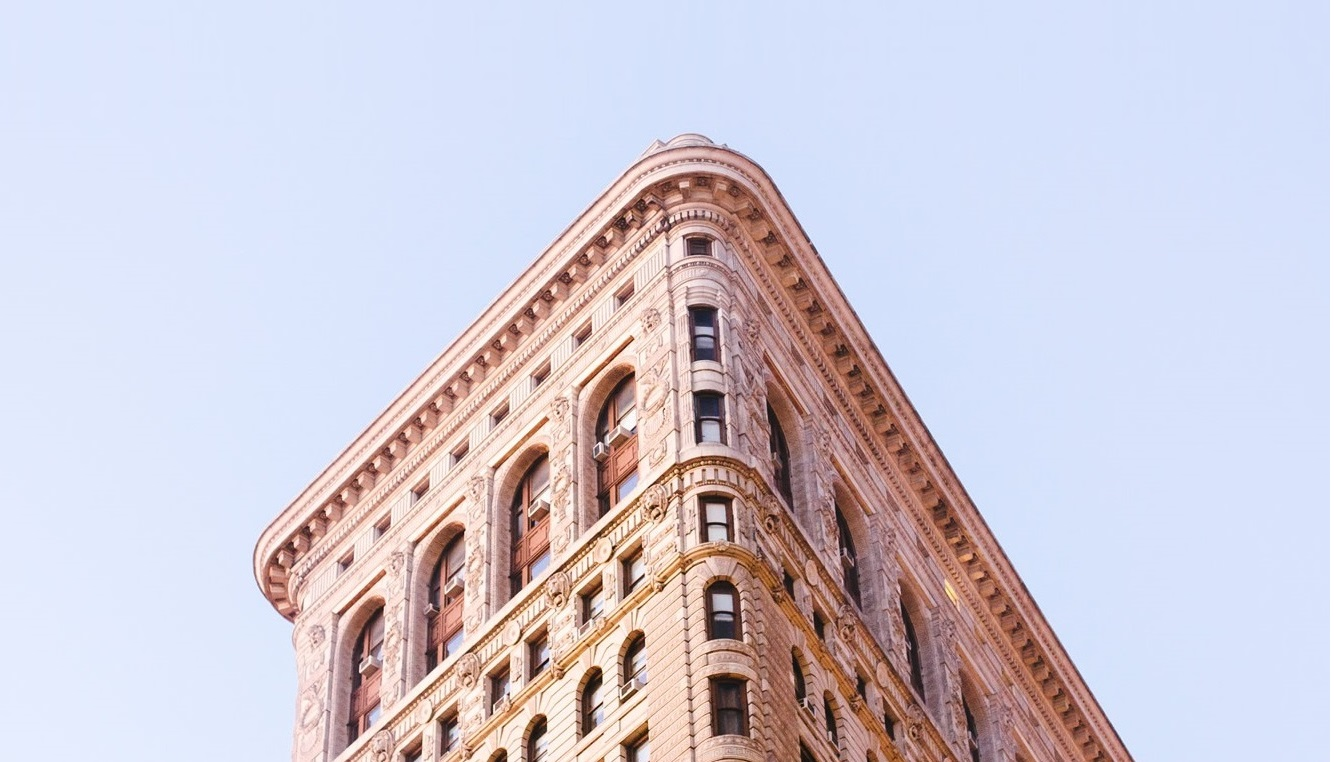
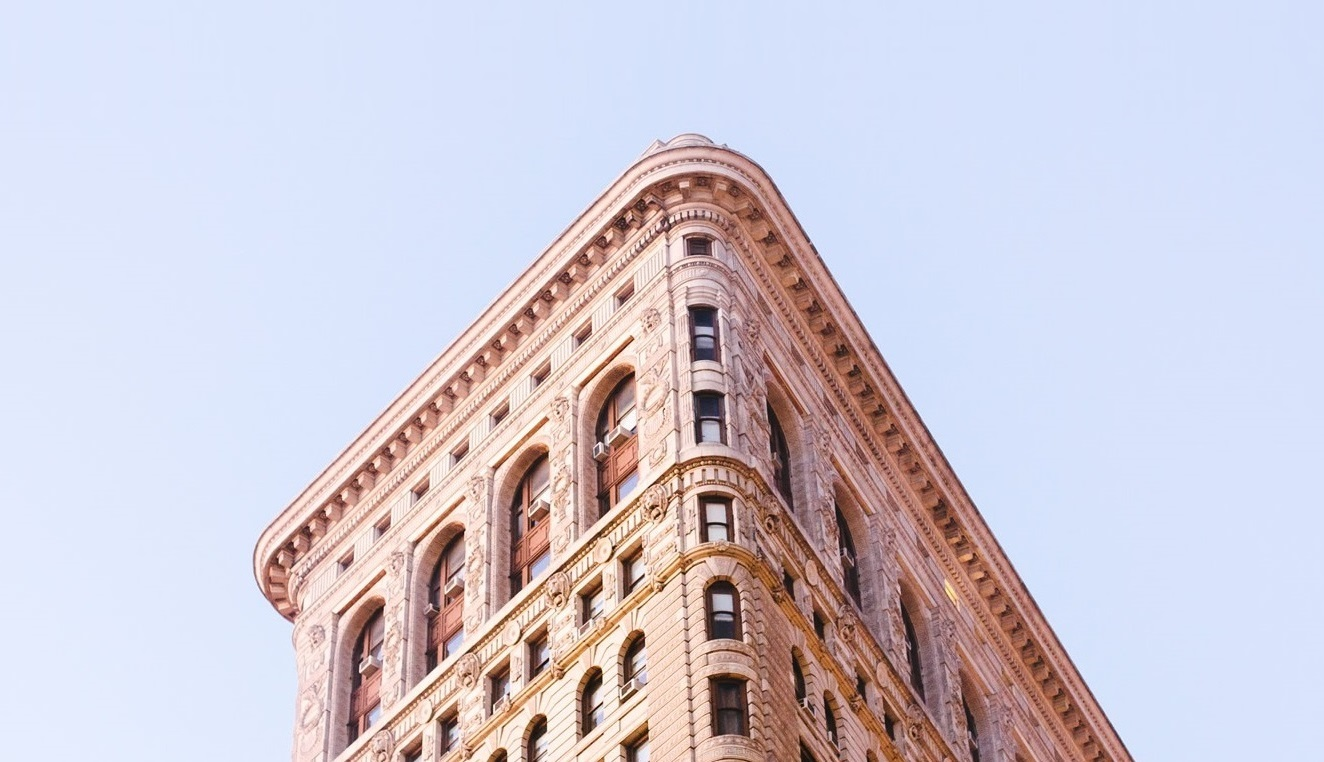
Background img fix

Changed region(s): [[0.1858, 0.1811, 0.8671, 1.0], [0.9909, 0.0, 1.0, 1.0]]

diff --git a/src/components/components/Header/Header.Styled.ts b/src/components/components/Header/Header.Styled.ts
@@ -6,8 +6,6 @@ export const HeaderWrapper = styled.header`
   justify-content: center;
   width: 100%;
 
-  height: 100%;
- 
   .header-div {
    display: flex;
    justify-content:space-between;
@@ -16,6 +14,7 @@ export const HeaderWrapper = styled.header`
    margin-right: 12rem;
    width: 100%;
    max-width: 1300px;
+   height: 700px;
   }
 
   nav {
@@ -26,6 +25,7 @@ export const HeaderWrapper = styled.header`
 
   a{
     padding: 30px 18px;
+    height: 30px;
   }
 
   img{

diff --git a/src/styles/section.css b/src/styles/section.css
@@ -1,7 +1,10 @@
 .header-section {
     background-image: url("../../public/background.jpg");
     background-repeat: no-repeat;
+    background-size: 100vw;
+  
     height: 700px;
+    
     position: relative;
 }
 

diff --git a/src/components/components/Footer/Footer.Styled.ts b/src/components/components/Footer/Footer.Styled.ts
@@ -10,6 +10,11 @@ export const FooterWrapper = styled.footer`
   align-items: center;
   padding: 22px 0px 10px 0px;
 
+  position:absolute;
+  bottom:0;
+  width:100%;
+  
+
 
   a {
     font-size: 13px;

diff --git a/src/styles/global.ts b/src/styles/global.ts
@@ -12,6 +12,7 @@ body {
     
     display: flex;
     flex-direction: column;
+    position:relative;
     height: 1500px;
 }
 
